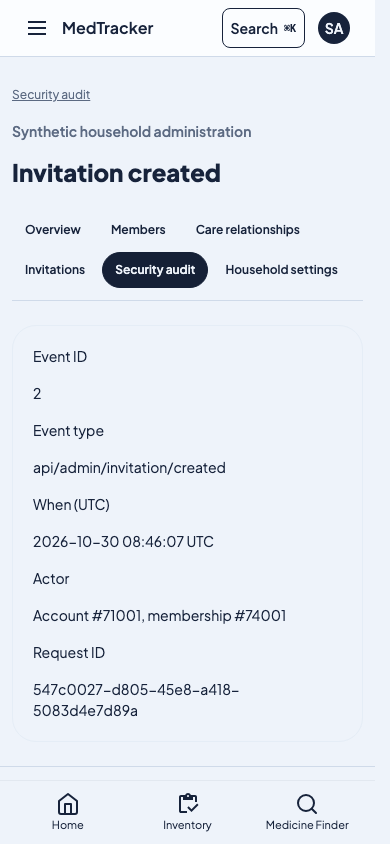
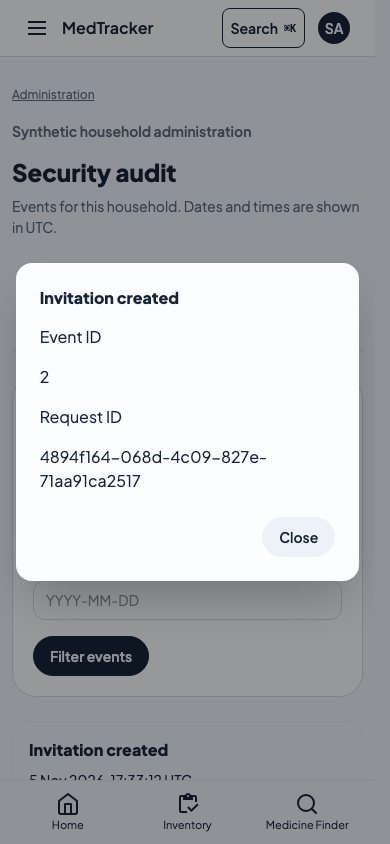
fix: clarify security audit events (#3057)

diff --git a/assets/views/administration/audit_logs/index.html b/assets/views/administration/audit_logs/index.html
@@ -27,12 +27,11 @@
 
   <ul class="md:hidden flex flex-col gap-3 mt-6" aria-label="{{ admin_labels.audit.events_label }}">
     {% for event in page.rows %}
-      <li class="card bg-base-100 border border-base-300"><div class="card-body p-4">
+      <li data-event-type="{{ event.event_type }}" class="card bg-base-100 border border-base-300"><div class="card-body p-4">
         <h2 class="font-semibold">{{ event.event_label }}</h2>
-        {% if event.event_label != event.event_type %}<p class="text-sm text-base-content/70 break-all">{{ event.event_type }}</p>{% endif %}
-        <p class="text-sm">{{ event.occurred_at_utc }}</p>
+        <p class="text-sm"><time data-audit-time>{{ event.occurred_at_utc }}</time></p>
         <p class="text-sm break-words">{{ event.actor }}</p>
-        <a class="link w-fit" href="/households/{{ slug }}/admin/audit_logs/{{ event.id }}{{ language_suffix }}">{{ admin_labels.audit.view_event }} {{ event.id }}</a>
+        <a class="link w-fit" data-audit-detail-link href="/households/{{ slug }}/admin/audit_logs/{{ event.id }}{{ language_suffix }}">{{ admin_labels.audit.view_event }} {{ event.id }}</a>
       </div></li>
     {% else %}
       <li>{{ admin_labels.audit.empty }}</li>
@@ -45,11 +44,11 @@
       <thead><tr><th scope="col">{{ admin_labels.audit.when }}</th><th scope="col">{{ admin_labels.audit.event }}</th><th scope="col">{{ admin_labels.audit.actor }}</th><th scope="col">{{ admin_labels.audit.details }}</th></tr></thead>
       <tbody>
       {% for event in page.rows %}
-        <tr>
-          <td>{{ event.occurred_at_utc }}</td>
-          <td>{{ event.event_label }}{% if event.event_label != event.event_type %}<span class="block text-sm text-base-content/70">{{ event.event_type }}</span>{% endif %}</td>
+        <tr data-event-type="{{ event.event_type }}">
+          <td><time data-audit-time>{{ event.occurred_at_utc }}</time></td>
+          <td>{{ event.event_label }}</td>
           <td>{{ event.actor }}</td>
-          <td><a class="link" href="/households/{{ slug }}/admin/audit_logs/{{ event.id }}{{ language_suffix }}">{{ admin_labels.audit.view_event }} {{ event.id }}</a></td>
+          <td><a class="link" data-audit-detail-link href="/households/{{ slug }}/admin/audit_logs/{{ event.id }}{{ language_suffix }}">{{ admin_labels.audit.view_event }} {{ event.id }}</a></td>
         </tr>
       {% else %}
         <tr><td colspan="4">{{ admin_labels.audit.empty }}</td></tr>
@@ -58,5 +57,13 @@
     </table>
   </div>
   {% if next_url %}<a class="btn btn-outline mt-6" rel="next" href="{{ next_url }}">{{ admin_labels.audit.next }}</a>{% endif %}
+  <dialog id="audit-detail-dialog" class="modal" aria-labelledby="audit-detail-title">
+    <div class="modal-box">
+      <h2 id="audit-detail-title" class="text-xl font-semibold"></h2>
+      <div data-audit-detail-content class="mt-4"></div>
+      <div class="modal-action"><button type="button" class="btn" data-dialog-close>{{ admin_labels.audit.close }}</button></div>
+    </div>
+  </dialog>
 </section>
+<script type="module" src="/static/js/audit-detail.js"></script>
 {% endblock content %}

diff --git a/assets/static/js/audit-detail.js b/assets/static/js/audit-detail.js
@@ -1,0 +1,39 @@
+function formatTimes(root) {
+  const language = document.documentElement.lang || 'en';
+  const formatter = new Intl.DateTimeFormat(language === 'en' ? 'en-GB' : language, {
+    dateStyle: 'medium', timeStyle: 'medium', timeZone: 'UTC'
+  });
+  for (const element of root.querySelectorAll('[data-audit-time]')) {
+    const raw = element.textContent.trim();
+    const date = new Date(raw.replace(' ', 'T').replace(' UTC', 'Z'));
+    if (Number.isNaN(date.valueOf())) continue;
+    element.dateTime = date.toISOString();
+    element.textContent = `${formatter.format(date)} UTC`;
+  }
+}
+
+formatTimes(document);
+
+const dialog = document.getElementById('audit-detail-dialog');
+document.addEventListener('click', async event => {
+  const link = event.target.closest('[data-audit-detail-link]');
+  if (!link || !dialog || event.button !== 0 || event.metaKey || event.ctrlKey || event.shiftKey || event.altKey) return;
+  event.preventDefault();
+  try {
+    const response = await fetch(link.href, { headers: { Accept: 'text/html' } });
+    if (!response.ok || response.redirected) throw new Error('Audit details unavailable');
+    const page = new DOMParser().parseFromString(await response.text(), 'text/html');
+    const title = page.querySelector('[data-audit-detail-title]');
+    const fields = page.querySelector('[data-audit-detail-fields]');
+    if (!title || !fields) throw new Error('Audit details unavailable');
+    for (const duplicate of fields.querySelectorAll('[data-audit-list-duplicate]')) duplicate.remove();
+    dialog.querySelector('#audit-detail-title').textContent = title.textContent;
+    const content = dialog.querySelector('[data-audit-detail-content]');
+    content.replaceChildren(fields);
+    formatTimes(content);
+    dialog.showModal();
+    dialog.addEventListener('close', () => link.focus(), { once: true });
+  } catch {
+    window.location.assign(link.href);
+  }
+});

diff --git a/assets/views/administration/audit_logs/show.html b/assets/views/administration/audit_logs/show.html
@@ -1,16 +1,15 @@
 {% extends "layouts/base.html" %}
 {% block content %}
 <section class="admin-page">
-  <a class="link" href="/households/{{ slug }}/admin/audit_logs{{ language_suffix }}">{{ admin_labels.audit.title }}</a>
   {% include "administration/context.html" %}
-  <h1 class="text-3xl font-semibold mt-4">{{ detail.summary.event_label }}</h1>
+  <h1 data-audit-detail-title class="text-3xl font-semibold mt-4">{{ detail.summary.event_label }}</h1>
   {% include "administration/navigation.html" %}
   <div class="card bg-base-100 border border-base-300 mt-6"><div class="card-body">
-    <dl class="grid gap-4 sm:grid-cols-[minmax(0,12rem)_minmax(0,1fr)]">
+    <dl data-audit-detail-fields class="grid gap-4 sm:grid-cols-[minmax(0,12rem)_minmax(0,1fr)]">
       <dt>{{ admin_labels.audit.event_id }}</dt><dd>{{ detail.summary.id }}</dd>
-      <dt>{{ admin_labels.audit.event_type }}</dt><dd>{{ detail.summary.event_type }}</dd>
-      <dt>{{ admin_labels.audit.when }}</dt><dd>{{ detail.summary.occurred_at_utc }}</dd>
-      <dt>{{ admin_labels.audit.actor }}</dt><dd>{{ detail.summary.actor }}</dd>
+      <dt data-audit-list-duplicate>{{ admin_labels.audit.event_type }}</dt><dd data-audit-list-duplicate>{{ detail.summary.event_type }}</dd>
+      <dt data-audit-list-duplicate>{{ admin_labels.audit.when }}</dt><dd data-audit-list-duplicate><time data-audit-time>{{ detail.summary.occurred_at_utc }}</time></dd>
+      <dt data-audit-list-duplicate>{{ admin_labels.audit.actor }}</dt><dd data-audit-list-duplicate>{{ detail.summary.actor }}</dd>
       {% if detail.request_id %}<dt>{{ admin_labels.audit.request_id }}</dt><dd>{{ detail.request_id }}</dd>{% endif %}
       {% for field in detail.fields %}<dt>{{ field.label }}</dt><dd>{{ field.value }}</dd>{% endfor %}
     </dl>

diff --git a/src/controllers/administration/audit_logs.rs b/src/controllers/administration/audit_logs.rs
@@ -222,6 +222,8 @@ enum FieldLabelView<'a> {
 }
 
 enum EventLabel {
+    HealthHistoryDownloaded,
+    MedicationReviewDownloaded,
     ApiRequest,
     RoleUpdated,
     MembershipChanged,
@@ -234,6 +236,8 @@ enum EventLabel {
 impl EventLabel {
     fn from_identifier(event_type: &str) -> Option<Self> {
         match event_type {
+            "health_history_report.downloaded" => Some(Self::HealthHistoryDownloaded),
+            "medication_review_report.downloaded" => Some(Self::MedicationReviewDownloaded),
             "api/admin/invitation/created" => Some(Self::InvitationCreated),
             "api/admin/invitation/resent" => Some(Self::InvitationResent),
             "api/admin/invitation/revoked" => Some(Self::InvitationRevoked),
@@ -247,6 +251,8 @@ impl EventLabel {
 
     const fn translation_key(&self) -> &'static str {
         match self {
+            Self::HealthHistoryDownloaded => "health_history_downloaded",
+            Self::MedicationReviewDownloaded => "medication_review_downloaded",
             Self::InvitationCreated => "invitation_created",
             Self::InvitationResent => "invitation_resent",
             Self::InvitationRevoked => "invitation_revoked",
@@ -276,7 +282,7 @@ pub(super) fn summaries(
 pub(super) fn summary(
     event: &administration::audit_logs::AuditSummary,
     labels: &Value,
-    language: &str,
+    _language: &str,
 ) -> Result<SummaryView, OperationError> {
     let audit = &labels["administration"]["audit"];
     let event_label = if let Some(kind) = EventLabel::from_identifier(&event.event_type) {
@@ -284,21 +290,17 @@ pub(super) fn summary(
     } else {
         event.event_label.clone()
     };
-    let actor = if language == "en" {
-        event.actor.clone()
-    } else {
-        match (event.actor_account_id, event.actor_membership_id) {
-            (Some(account), Some(membership)) => format!(
-                "{} #{account}, {} #{membership}",
-                text(&audit["actors"], "account")?,
-                text(&audit["actors"], "membership")?
-            ),
-            (Some(account), None) => format!("{} #{account}", text(&audit["actors"], "account")?),
-            (None, Some(membership)) => {
-                format!("{} #{membership}", text(&audit["actors"], "membership")?)
-            }
-            (None, None) => text(&audit["actors"], "system")?.to_owned(),
+    let actor = match (event.actor_account_id, event.actor_membership_id) {
+        (Some(account), Some(membership)) => format!(
+            "{} #{account}, {} #{membership}",
+            text(&audit["actors"], "account")?,
+            text(&audit["actors"], "membership")?
+        ),
+        (Some(account), None) => format!("{} #{account}", text(&audit["actors"], "account")?),
+        (None, Some(membership)) => {
+            format!("{} #{membership}", text(&audit["actors"], "membership")?)
         }
+        (None, None) => text(&audit["actors"], "system")?.to_owned(),
     };
     Ok(SummaryView {
         id: event.id,
@@ -453,6 +455,34 @@ fn filter_errors(error: &OperationError, labels: &Value) -> Vec<Value> {
 #[cfg(test)]
 mod tests {
     use super::*;
+
+    #[test]
+    fn report_download_events_have_translated_labels() -> Result<(), OperationError> {
+        for language in ["en", "cy", "ga", "pt", "es"] {
+            let labels = crate::models::care::report_pdf::translations(language)
+                .map_err(|_| OperationError::Unavailable)?;
+            for identifier in [
+                "health_history_report.downloaded",
+                "medication_review_report.downloaded",
+            ] {
+                let event = administration::audit_logs::AuditSummary {
+                    id: 1,
+                    event_type: identifier.to_owned(),
+                    event_label: identifier.to_owned(),
+                    occurred_at_utc: "2030-01-15 12:00:00 UTC".to_owned(),
+                    actor: "System".to_owned(),
+                    actor_account_id: None,
+                    actor_membership_id: None,
+                };
+                assert_ne!(
+                    summary(&event, &labels, language)?.event_label,
+                    identifier,
+                    "{language}"
+                );
+            }
+        }
+        Ok(())
+    }
 
     #[test]
     fn unknown_event_labels_keep_their_identifier_in_every_locale() -> Result<(), OperationError> {

diff --git a/tests/requests/administration_overview.rs b/tests/requests/administration_overview.rs
@@ -1330,10 +1330,9 @@ async fn administration_overview_shows_five_recent_scoped_safe_events() -> TestR
     assert!(populated_html.contains(&format!("/admin/audit_logs/{}", recent[5].id)));
     assert!(!populated_html.contains(&format!("/admin/audit_logs/{}", recent[0].id)));
     assert!(!populated_html.contains(&format!("/admin/audit_logs/{}", foreign_recent.unwrap().id)));
-    assert!(
-        populated_html
-            .contains(format!("Account #{account_id}, membership #{actor_member_id}").as_str())
-    );
+    assert!(populated_html.contains(
+        format!("Account ID #{account_id}, household membership ID #{actor_member_id}").as_str()
+    ));
     assert!(populated_html.contains("Household role changed"));
     assert!(!populated_html.contains("private-clinical-note"));
     assert!(!populated_html.contains("private-session"));
@@ -1670,10 +1669,10 @@ async fn member_detail_scopes_safe_history_and_preserves_navigation() -> TestRes
     assert_eq!(html.matches("data-member-event=").count(), 25);
     assert!(html.contains(&format!("data-member-event=\"{}\"", detail_events[27].id)));
     assert!(!html.contains(&format!("data-member-event=\"{}\"", excluded.id)));
-    assert!(html.contains(format!("Account #{account_id}").as_str()));
-    assert!(
-        html.contains(format!("Account #{account_id}, membership #{actor_member_id}").as_str())
-    );
+    assert!(html.contains(format!("Account ID #{account_id}").as_str()));
+    assert!(html.contains(
+        format!("Account ID #{account_id}, household membership ID #{actor_member_id}").as_str()
+    ));
     accounts::Entity::update_many()
         .col_expr(
             accounts::Column::Name,
@@ -1687,11 +1686,9 @@ async fn member_detail_scopes_safe_history_and_preserves_navigation() -> TestRes
         .await;
     assert_eq!(renamed.status_code(), 200);
     assert!(renamed.text().contains("Renamed synthetic actor"));
-    assert!(
-        renamed
-            .text()
-            .contains(format!("Account #{account_id}, membership #{actor_member_id}").as_str())
-    );
+    assert!(renamed.text().contains(
+        format!("Account ID #{account_id}, household membership ID #{actor_member_id}").as_str()
+    ));
     assert!(!html.contains("<script>alert(1)</script>"));
     assert!(html.contains("&lt;script&gt;alert(1)&lt;/script&gt;"));
     assert!(!html.contains(&format!("data-member-event=\"{}\"", foreign_event.id)));
@@ -1739,7 +1736,11 @@ async fn member_detail_scopes_safe_history_and_preserves_navigation() -> TestRes
     let next = request.get(&older).await;
     assert_eq!(next.status_code(), 200, "{}", next.text());
     assert_eq!(next.text().matches("data-member-event=").count(), 3);
-    assert!(!next.text().contains(&format!("{}\"", detail_events[3].id)));
+    assert!(
+        !next
+            .text()
+            .contains(&format!("data-member-event=\"{}\"", detail_events[3].id))
+    );
     let csrf = authenticity_token(&html).ok_or("csrf missing")?;
     let changed = request
         .post(format!("/households/{slug}/admin/users/{subject_member_id}/restore").as_str())

diff --git a/tests/browser/administration_polish.rs b/tests/browser/administration_polish.rs
@@ -76,13 +76,20 @@ async fn administration_polish_overview_and_forms() {
                 expect(trigger).to_be_focused().await.unwrap();
             }
         }
-        let detail = page.locator("main table tbody tr:first-child a").get_attribute("href").await.unwrap().unwrap();
-        page.goto(&format!("{}{detail}",journey.origin),None).await.unwrap();
-        expect(page.locator("body[data-navigation-ready]")).to_be_visible().await.unwrap();
+        page.set_viewport_size(Viewport { width: 1440, height: 1000 }).await.unwrap();
+        let detail = page.locator("main table tbody tr:first-child a");
+        detail.click(None).await.unwrap();
+        expect(page.locator("dialog[open]")).to_be_visible().await.unwrap();
+        assert!(!page.evaluate::<(), bool>("() => [...document.querySelectorAll('dialog[open] dt')].some(term => term.textContent.trim() === 'Event type')", None).await.unwrap());
+        assert!(!page.evaluate::<(), bool>("() => [...document.querySelectorAll('dialog[open] dt')].some(term => ['When (UTC)', 'Actor'].includes(term.textContent.trim()))", None).await.unwrap());
+        assert!(page.url().ends_with("/admin/audit_logs"));
         for width in [1440,390,320] {
             page.set_viewport_size(Viewport {width,height:if width==1440 {1000}else{844}}).await.unwrap();
             capture(page,&format!("audit-detail-{width}")).await;
         }
+        page.set_viewport_size(Viewport { width: 1440, height: 1000 }).await.unwrap();
+        page.keyboard().press("Escape", None).await.unwrap();
+        expect(detail).to_be_focused().await.unwrap();
         page.goto(&format!("{}/households/persistence-fixture/admin/household/edit",journey.origin),None).await.unwrap();
         page.get_by_label("Household name",true).fill("   ",None).await.unwrap();
         page.get_by_role(AriaRole::Button,named("Save household")).click(None).await.unwrap();

diff --git a/tests/care_api/audit_logs_browser.rs b/tests/care_api/audit_logs_browser.rs
@@ -549,10 +549,12 @@ async fn audit_browser_rejects_foreign_events_and_lost_manager_authority()
     assert!(!foreign_body.contains("synthetic-foreign-clinical-note"));
     assert_eq!(member_status, reqwest::StatusCode::FORBIDDEN);
     assert_eq!(member_cache.as_deref(), Some("no-store"));
-    assert!(!member_body.contains(&audit_ids["foreign"].to_string()));
+    assert!(!member_body.contains(&format!("/admin/audit_logs/{}", audit_ids["foreign"])));
+    assert!(!member_body.contains("synthetic-foreign-clinical-note"));
     assert_ne!(revoked_status, reqwest::StatusCode::OK);
     assert_eq!(revoked_cache.as_deref(), Some("no-store"));
-    assert!(!revoked_body.contains(&audit_ids["foreign"].to_string()));
+    assert!(!revoked_body.contains(&format!("/admin/audit_logs/{}", audit_ids["foreign"])));
+    assert!(!revoked_body.contains("synthetic-foreign-clinical-note"));
     Ok(())
 }
 
